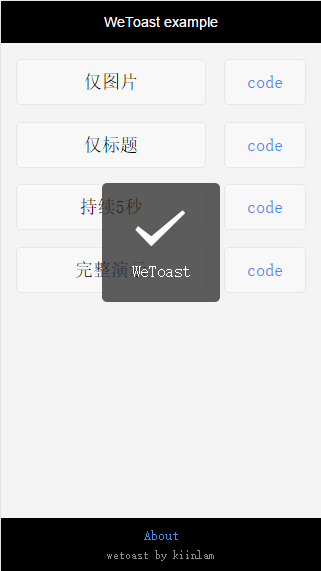
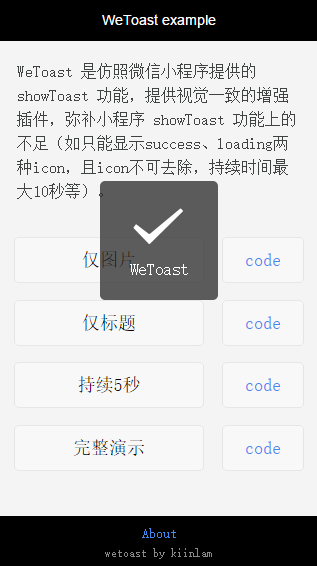
:tada: update demo

diff --git a/README.md b/README.md
@@ -3,7 +3,7 @@ WeToast for 微信小程序 toast增强插件
 
 ## 概述
 
-[WeToast](https://github.com/kiinlam/wetoast) 仿照微信小程序提供的 `showToast` API功能，提供视觉一致的增强插件，弥补小程序`wx.showToast`功能上的不足，如只能显示`success`、`loading`两种icon，且icon不可去除，持续时间最大10秒等。
+[WeToast](https://github.com/kiinlam/wetoast) 是仿照微信小程序提供的 `showToast` 功能，提供视觉一致的增强插件，弥补小程序`showToast`功能上的不足（如只能显示`success`、`loading`两种icon，且icon不可去除，持续时间最大10秒等）。
 
 ## 预览
 
